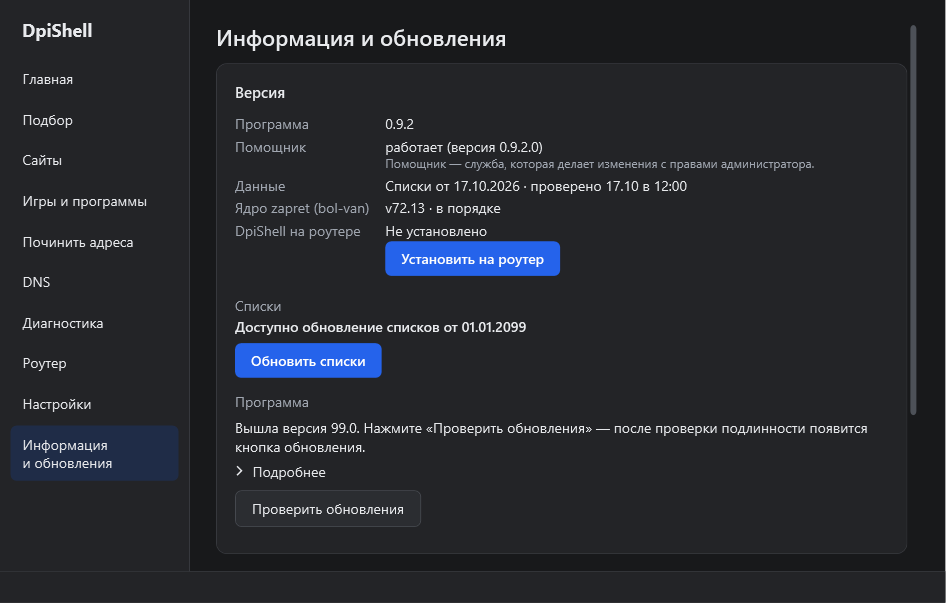
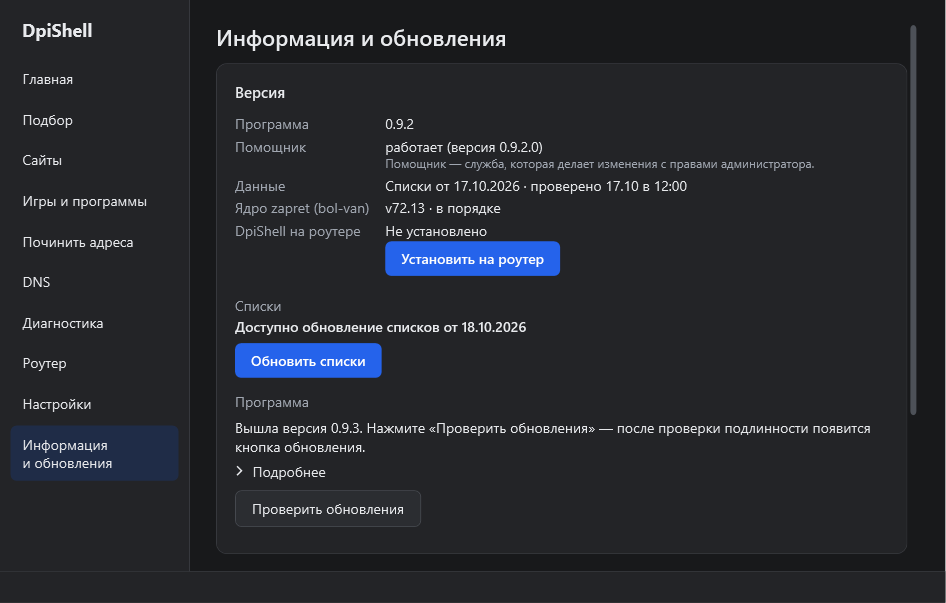
Снимки README: в демо-режиме правдоподобные даты и версии обновлений (без 2099 и 99.0)

Changed region(s): [[0.3372, 0.6866, 0.9197, 0.7164], [0.4905, 0.5373, 0.5518, 0.5672]]

diff --git a/tests/DpiShell.Tests/WindowSmokeTests.Demo.cs b/tests/DpiShell.Tests/WindowSmokeTests.Demo.cs
@@ -33,8 +33,8 @@ public sealed partial class WindowSmokeTests
                     var shell = new Shell(new AppPaths(tmp.Sub("demo-" + theme), Repo.Data));
                     var settings = TestWindow.Settings(shell);
                     settings.Theme = theme;
-                    settings.UpdatesData = "2099-01-01";
-                    settings.UpdatesApp = "99.0";
+                    settings.UpdatesData = "2026-10-18";
+                    settings.UpdatesApp = "0.9.3";
                     settings.UpdatesCheckedAt = settings.UpdatesOkAt = new DateTime(2026, 10, 17, 12, 0, 0);
                     if (theme == ThemeManager.Dark) shell.State.RunMode = "process";
                     // Запись подключений «Игр и программ» — на подменённых источнике потоков и списке процессов (выдуманные game.exe/chrome.exe).
